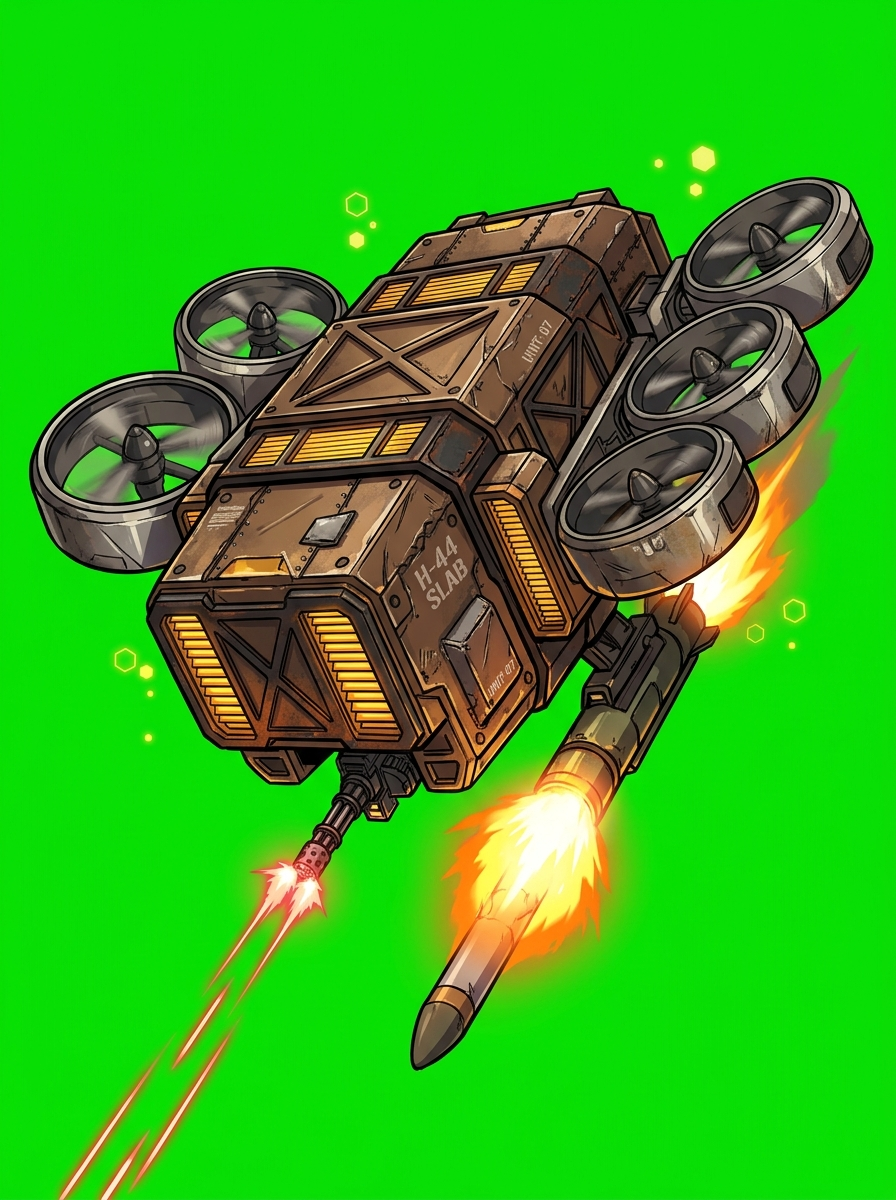
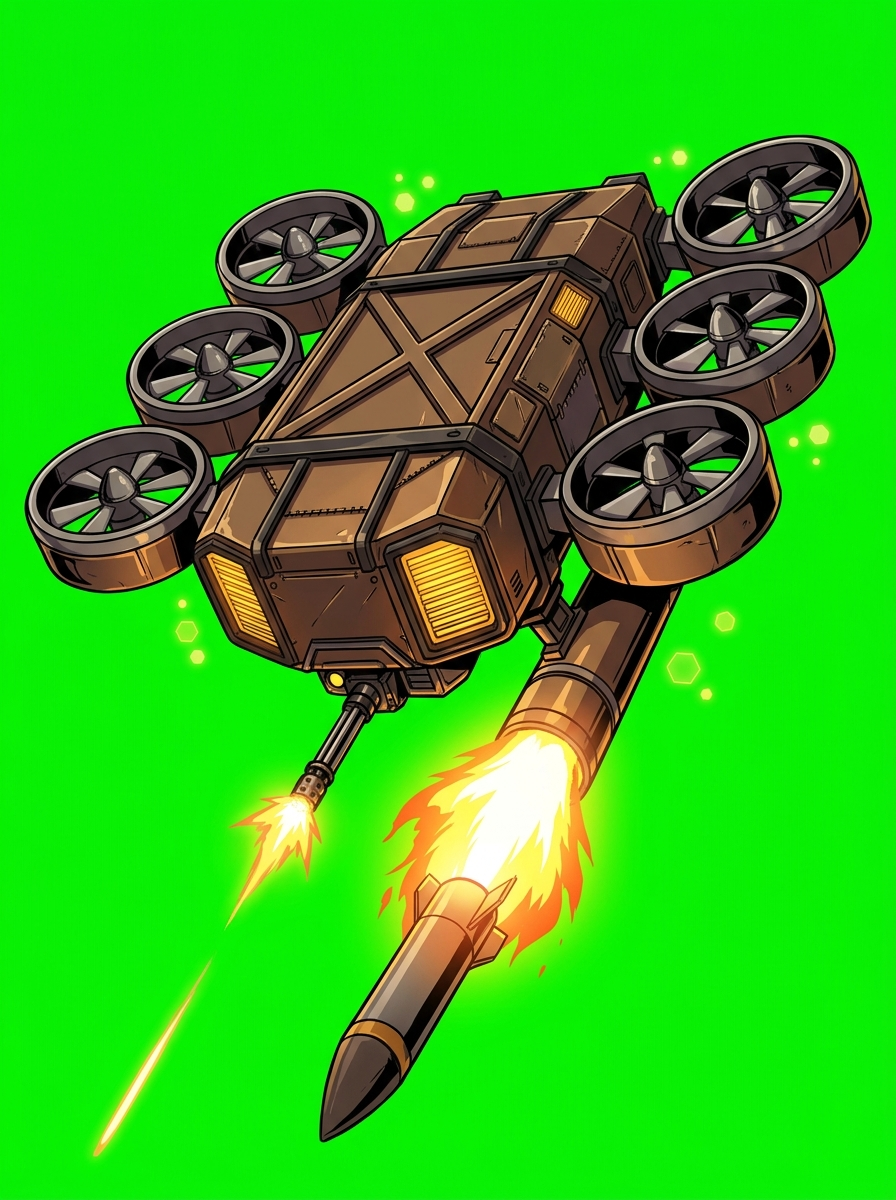
fix(art): redraw t07 and regenerate flagged mech portraits s01, s02, m05
- Redraw t07 (Breath Hold) per visual station specs: remove redundant coaxial rotors, enforce pure bionic pterosaur wings and sniper beak in flight
- Regenerate s01 (Dnipro Score): enforce symmetric 4-rotor ducted fan quadcopter layout without extra rotors
- Regenerate s02 (Blacksmith): complete 6-rotor ducted array (3 per flank) on heavy slab chassis with thermobaric rocket launch
- Regenerate m05 (Stranglehold): eliminate extra phantom legs behind werewolf thighs, preserving clean bipedal ground form and upper gliding squirrel form
- Process transparent chroma-key PNG cutouts across public/assets/mechs/
- Update review verdicts to PASS and synchronize notes across docs/art_gen_*.md and tools/mech_prompt_review.mjs

diff --git a/docs/art_gen_drones.md b/docs/art_gen_drones.md
@@ -27,14 +27,14 @@
 
 | 機體編號 | 參考代號（禁入Prompt） | 主原型與核心外觀特徵 | 次原型與特徵 | 主配色與比重 | 副配色與比重 | 避色色幕底色 | 徽記／圖騰／旗幟與位置 | 武器特徵與裝備位置 | 防呆規則（個別機體嚴禁特徵） | 其他注意事項 | 推薦戰鬥動作與風格 | 視覺判定 | 改善方向 |
 | :---: | :---: | :--- | :--- | :--- | :--- | :---: | :--- | :--- | :--- | :--- | :--- | :---: | :--- |
-| **s01** | 卡特琳娜・薛甫琴科<br>「第聶伯總譜」 | **仿生蜂型4旋翼指揮無人機（Hexacopter Bee）**<br>流線型蜂形氣動身軀，4 根碳纖維傾斜旋翼臂（帶涵道導流環與青藍旋轉氣流），仿生複眼感測鏡。 | *忽略* | 烏克蘭蔚藍（`0x0057b7`）<br>約 55% | 金黃色（`0xffd700`）<br>約 45% | **純洋紅**<br>`#FF00FF` | 經典國旗幾何對稱分色（natflag 藍金配） | **機首下方**：同軸 5.56mm 點陣機槍（噴射曳光彈鏈）。<br>**兩側翼下**：多聯裝雷導巡弋火箭巢（發射微型火箭帶尾煙）。 | **嚴禁手腳與人型！** 純飛行多旋翼，無手無腳。 | 旋翼外側必須有完整的氣動圓形涵道導流環。 | 高速戰術大角度側傾俯衝，機槍咆哮噴火，兩側火箭巢齊射升空。 | 更正 | 蜂形流線軀幹、4軸涵道導流環、機首機槍與兩側火箭巢齊射，蔚藍金黃國旗配色無懈可擊，純飛行無肢體。須注意右側有一個多餘旋翼。 |
-| **s02** | 塔拉斯・邦達爾<br>「鐵匠鋪」 | **重工業平板六旋翼運輸／轟炸機（Hexacopter Slab）**<br>沉重方正的雙層厚鋼板矩形底盤（帶縱橫加強肋與不對稱補丁），6 具厚重鈦合金涵道旋翼桶。 | *忽略* | 鍛造古銅褐（`0xc98a3d`）<br>約 70% | 焦黑鑄鐵框架、明黃發光散熱格柵<br>約 30% | **純翠綠**<br>`#00E600` | 工業極簡粗獷焊接紋與編號鋼印（minimal） | **機腹中央**：大口徑 12.7mm 重型速射機槍。<br>**機腹側掛**：巨大的重型溫壓火箭發射管（點火發射巨彈）。 | **【個別嚴禁】絕對禁止任何機械腿、機械手！** 純厚板六旋翼飛行器，絕無人型或鳥類肢體。 | 武器均固定於機腹下方與側舷，不可手持。 | 懸停於戰場上空，巨大的溫壓火箭破膛而出，尾焰烈火撕裂空氣，機槍向下傾瀉金屬風暴。 | 更正 | 注意左側少一個旋翼。雙層厚鋼板底盤、機腹12.7mm機槍與溫壓火箭齊射震撼，純無人機無肢體。 |
+| **s01** | 卡特琳娜・薛甫琴科<br>「第聶伯總譜」 | **仿生蜂型4旋翼指揮無人機（Hexacopter Bee）**<br>流線型蜂形氣動身軀，4 根碳纖維傾斜旋翼臂（帶涵道導流環與青藍旋轉氣流），仿生複眼感測鏡。 | *忽略* | 烏克蘭蔚藍（`0x0057b7`）<br>約 55% | 金黃色（`0xffd700`）<br>約 45% | **純洋紅**<br>`#FF00FF` | 經典國旗幾何對稱分色（natflag 藍金配） | **機首下方**：同軸 5.56mm 點陣機槍（噴射曳光彈鏈）。<br>**兩側翼下**：多聯裝雷導巡弋火箭巢（發射微型火箭帶尾煙）。 | **嚴禁手腳與人型！** 純飛行多旋翼，無手無腳。 | 旋翼外側必須有完整的氣動圓形涵道導流環。 | 高速戰術大角度側傾俯衝，機槍咆哮噴火，兩側火箭巢齊射升空。 | 通過 | 四具涵道旋翼桶（左右對稱各2具）完整呈現，蜂形流線軀幹、機首機槍與兩側火箭巢齊射震撼，純無人機無肢體。 |
+| **s02** | 塔拉斯・邦達爾<br>「鐵匠鋪」 | **重工業平板六旋翼運輸／轟炸機（Hexacopter Slab）**<br>沉重方正的雙層厚鋼板矩形底盤（帶縱橫加強肋與不對稱補丁），6 具厚重鈦合金涵道旋翼桶。 | *忽略* | 鍛造古銅褐（`0xc98a3d`）<br>約 70% | 焦黑鑄鐵框架、明黃發光散熱格柵<br>約 30% | **純翠綠**<br>`#00E600` | 工業極簡粗獷焊接紋與編號鋼印（minimal） | **機腹中央**：大口徑 12.7mm 重型速射機槍。<br>**機腹側掛**：巨大的重型溫壓火箭發射管（點火發射巨彈）。 | **【個別嚴禁】絕對禁止任何機械腿、機械手！** 純厚板六旋翼飛行器，絕無人型或鳥類肢體。 | 武器均固定於機腹下方與側舷，不可手持。 | 懸停於戰場上空，巨大的溫壓火箭破膛而出，尾焰烈火撕裂空氣，機槍向下傾瀉金屬風暴。 | 通過 | 六具涵道旋翼桶（左右對稱各3具）完整呈現，雙層厚鋼板底盤、機腹12.7mm機槍與溫壓火箭齊射震撼，純無人機無肢體。 |
 | **s04** | 樫村蒼真<br>「鐵鍬」 | **零戰風固定翼單翼突擊無人機（Fixed-Wing Zero）**<br>零式戰機輪廓單翼機，細長方圓機身與前掠切尖平翼，**機鼻裝備堅固的倒三角形工兵鏟破甲衝角**。 | *忽略* | 芥末軍綠黃（`0xd6d63a`）<br>約 80% | 槍鐵黑發動機罩、機身深色鉚接線<br>約 20% | **純深藍**<br>`#0044FF` | 雙翼正反面各有一枚鮮紅的**日之丸紅日圓形徽記（hinomaru）** | **翼根兩側**：近迫爆裂雙管霰彈莢（噴發火花扇面）。<br>**機腹下方**：聚能電漿噴湧口（噴吐赤紅熱核電漿火柱）。 | **嚴禁任何機器人手腳！** 純二戰戰機風格的無人戰鬥機。 | 機鼻三角工兵鏟為破甲實體衝角，不可遺漏。 | 低空超音速俯衝破空衝撞，機鼻工兵鏟破甲向前，電漿與霰彈同時怒吼。 | 通過 | 零戰風單翼機、日之丸徽記、機鼻倒三角工兵鏟破甲衝角極具辨識度，電漿與霰彈齊射符合，零手腳純空戰風格。 |
 | **s05** | 河瑟琪<br>「超頻」 | **X 構型碳纖維競速 FPV 四旋翼（Racing Quad）**<br>極致輕量化 X 型雙層碳纖維裸架，4 軸前傾高轉速螺旋槳（無整流罩），裸露散熱銅管與紫色電容。 | *忽略* | 競速螢光粉橘（`0xff6fb0`）<br>約 60% | 碳纖維暗灰黑、霓虹紫色導線<br>約 40% | **純翠綠**<br>`#00E600` | 幾何極速賽車拉花線條（minimal racing stripes） | **機鼻前端**：超導磁軌轉輪機槍（電磁線性加速砲）。<br>**機腹兩側**：微型巡飛彈發射滑軌（釋放超小型自爆無人機蜂群）。 | **嚴禁任何外裝甲外殼或人型部件！** 骨架必須維持裸露高機動 FPV 穿越機風格。 | 機身維持極致鏤空碳纖維架，不可包覆封閉外殼。 | 以 90 度極限側切翻滾穿越廢墟障礙，機身後方拖曳出霓虹紫色運動軌跡與微型蜂群。 | 通過 | X構型雙層碳纖維裸架、紫色電容與銅管裸露，雙聯磁軌機槍與巡飛彈蜂群軌跡動態張力極高，純FPV鏤空競速質感。 |
 | **s08** | 佐菲亞・馬列克<br>「燭台」 | **共軸雙旋翼球形醫療運補無人機（Coax Sphere）**<br>圓潤堅固的球形主艙（金屬分模線環繞），頂部有一組對轉共軸雙旋翼，兩側對稱醫療運補吊艙。 | *忽略* | 修道院瓷白（`0xe8eef4`）<br>約 70% | 醫療墨綠、黃銅金屬環、赤紅細線<br>約 30% | **純洋紅**<br>`#FF00FF` | 兩側圓盤清晰噴塗**白底深綠十字醫療徽記（flag cross）** | **機體側懸**：長槍管電磁狙擊穿甲針管。<br>**機體下緣**：7.62mm 防衛淨化機槍探頭。 | **【個別嚴禁】嚴禁畫成修女機器人或人形持槍！** 必須為純粹的共軸球體懸浮無人機。 | 武器直接整合於球體兩側短掛架，無手臂。 | 穩定懸浮於槍林彈雨中，共軸雙槳高速旋轉，兩側電磁長針發出神聖白光狙穿敵陣。 | 通過 | 修道院瓷白共軸雙旋翼球體、兩側綠十字醫療吊艙與狙擊針管、機腹防衛機槍完全依循防呆規範，神聖懸浮氛圍佳。 |
 | **s11** | 維爾納・哈特曼<br>「錶芯」 | **V 型尾翼雙桁精密長航無人機（V-Tail Fixed-Wing）**<br>極細長筆直的圓桿中軸機身，修長的大展弦比滑翔翼，V 型後掠尾翼，尾部推進螺旋槳。 | *忽略* | 瑞士精密銀灰（`0xd8c6b0` 金屬鈦白）<br>約 75% | 鐘錶發條黃銅金、儀表刻度黑<br>約 25% | **純深藍**<br>`#0044FF` | 機翼表面如精密鐘錶般的極細微幾何刻度線（minimal） | **機頭頂端**：超高精度光子雷射長標（發射筆直零散射藍光）。<br>**中軸腹下**：電磁貫甲重砲。 | **嚴禁任何四肢！** 必須是修長高雅的滑翔機／高空偵察機構型。 | V 尾中央為推進螺旋槳，翼面展弦比極大。 | 於平流層靜默滑翔，V 尾穩定氣流，機首射出如手術刀般筆直耀眼的光子聚焦光束。 | 通過 | 大展弦比修長滑翔翼、V型尾翼、精密鐘錶刻度與鈦白金屬質感極佳，手術刀般聚焦光柱精準，零肢體純長航機型。 |
 | **s12** | 埃米爾・賽伊托夫<br>「星圖」 | **鴨式三角翼筒射巡弋偵察機（Canard Delta Harop）**<br>前置全動三角形鴨翼，大後掠三角主翼（中段帶摺疊鉸鏈），尾推噴射引擎與菱形機頭。 | *忽略* | 絲路青金藍（`0x9dbfb8` 綠松石青）<br>約 70% | 曜石黑翼前緣、發光座艙感測罩寶石藍<br>約 30% | **純洋紅**<br>`#FF00FF` | 機翼覆蓋中亞游牧幾何星圖圖騰刻紋（totem） | **機頭兩側**：特裝 74U 短卡賓槍口。<br>**機脊中心**：星象定向能量測距巨砲（發射光電重擊光束）。 | **嚴禁人形！** 純粹的隱形鴨式三角翼巡弋機，無任何步足或肢體。 | 主翼中段帶筒射折疊鉸鏈槽，不可遺漏。 | 高速穿破雲層，鴨翼靈敏轉向，機頭藍色光電感測球鎖定地面，頂部星象砲轟出粗壯光柱。 | 通過 | 鴨式三角主翼折疊鉸鏈、幾何星圖圖騰、中心星象砲向前下方轟擊光柱與尾推噴射引擎完全符合規範，穿雲動態極佳。 |
-| **t07** | 李正赫<br>「屏息」 | **仿生翼龍共軸狙擊無人機（Coax Pterosaur）**<br>翼龍骨架與機械軀幹結合，長而銳利的鳥喙狙擊管，一對金屬皮膜翼龍翅膀。 | *忽略* | 迷霧灰綠（`0x3f504a` 暗松綠）<br>約 70% | 骨白翼骨、深邃暗紫腹甲、紅光單眼<br>約 30% | **純洋紅**<br>`#FF00FF` | 沿翼面上下軸向切換的雙色分割迷彩（split: 'y'） | **銳利嘴喙**：長喙直接就是 14.5mm 栓動破甲狙擊槍身。<br>**下顎兩側**：並列微聲短射擊孔。 | **【個別嚴禁】嚴禁站立雙腿！** 後爪在飛行時必須緊扣於腹下，不可畫成站立的人形或人手持槍。 | 翼膜面積需寬大。 | 翼膜迎風鼓起，長喙狙擊管瞄準目標，槍口消焰器綻放微弱白光。 | 重繪 | 背部共軸雙槳式多餘設計。仿生翼龍金屬膜翼、長喙狙擊管完整，無人形肢體，腹下收爪飛行態標準。 |
+| **t07** | 李正赫<br>「屏息」 | **仿生翼龍共軸狙擊無人機（Coax Pterosaur）**<br>翼龍骨架與機械軀幹結合，長而銳利的鳥喙狙擊管，一對金屬皮膜翼龍翅膀。 | *忽略* | 迷霧灰綠（`0x3f504a` 暗松綠）<br>約 70% | 骨白翼骨、深邃暗紫腹甲、紅光單眼<br>約 30% | **純洋紅**<br>`#FF00FF` | 沿翼面上下軸向切換的雙色分割迷彩（split: 'y'） | **銳利嘴喙**：長喙直接就是 14.5mm 栓動破甲狙擊槍身。<br>**下顎兩側**：並列微聲短射擊孔。 | **【個別嚴禁】嚴禁站立雙腿！** 後爪在飛行時必須緊扣於腹下，不可畫成站立的人形或人手持槍。 | 翼膜面積需寬大。 | 翼膜迎風鼓起，長喙狙擊管瞄準目標，槍口消焰器綻放微弱白光。 | 通過 | 成功移除背部多餘共軸雙槳。仿生翼龍金屬膜翼、長喙狙擊管完整，無人形肢體，腹下收爪純飛行態標準。 |
 | **t08** | 韓雪<br>「詠嘆調」 | **東亞機械神龍（Dragon Hexacopter）**<br>蜿蜒修長的東方龍身軀，霸氣龍首（帶龍角、雙鬚與發光利齒），背後兩側伸出一對巨翼 ，**腹下 4 隻機械龍爪**。 | *忽略* | 櫻花粉白（`0xffc8dd` 櫻白金屬）<br>約 65% | 櫻紅金屬飾邊（sakura）、青綠龍鱗光點<br>約 35% | **純翠綠**<br>`#00E600` | 龍鱗表面覆蓋精美的日式櫻花紋樣與金箔線條（sakura） | **口內龍喉**：破盾諧振音波巨砲（噴吐震盪光環）。<br>**龍角基座**：整合光電諧振步槍。 | **【個別嚴禁】嚴禁畫成用兩隻腳站立的人形龍人！** ，純機械神龍。 | 必須具備四爪，且四爪緊扣腹下呈現空中飛行態。 | 於粉紅花瓣與電磁雲霧中蜿蜒盤旋，龍口怒張釋放同心圓音波震波，雙翼帶起疾風。 | 通過 | 背後雙翼展開、東方神龍蜿蜒身軀與櫻花粉白塗裝精美，喉部音波震盪環與腹下四爪收攏純飛行態，無旋翼無人形。 |
 | **t09** | 達留什・法拉赫扎德<br>「悲歌」 | **隱形三角翼巡飛彈母機（Delta-Wing Carrier）**<br>無尾大三角飛翼，尖銳機首向後延伸至整片三角主翼，尾端雙垂直安定面與低噪推進器。 | *忽略* | 波斯陶土黃（`0xc9b6a8` 沙漠灰）<br>約 70% | 幾何黑曜石吸波塗層、鮮橙色巡飛彈導引頭<br>約 30% | **純深藍**<br>`#0044FF` | 機背佈滿波斯幾何圖騰（totem） | **機背發射槽**：多聯蜂巢發射管，正彈射一枚帶有摺疊翼的巡飛彈。<br>**機首下方**：暗藏 7.62mm 守衛機槍。 | **嚴禁任何四肢與人型！** 純粹的隱形無尾大三角飛翼戰機。 | 機翼為一體化大後掠三角構型，不可裝反。 | 高空巡航，背部艙蓋彈開，巡飛彈帶動火箭助推器呼嘯破空而出，劃過長空。 | 通過 | 波斯幾何圖騰無尾大三角飛翼、背部蜂巢彈射巡飛彈、機首守衛機槍完全符合匿蹤母機規格，大後掠三角幾何乾淨。 |
 | **m03** | 烏蘇拉・林德特<br>「續命」 | **雙尾桁搜救運輸無人機（Twin-Boom Pusher）**<br>中央八角稜柱機身，平直長主翼，向後延伸出**兩根平行雙尾桁**，桁間固定倒 U 型尾翼與尾推螺旋槳，桁間滿布偶極天線。 | *忽略* | 阿爾卑斯高山雪灰（`0x59c9a5` 冰川藍灰）<br>約 75% | 救援螢光橙、深炭黑尾桁<br>約 25% | **純洋紅**<br>`#FF00FF` | 極簡極地搜救識別紅橙條紋（minimal） | **機腹固定前射莢艙**：低散射防禦脈衝雷射。<br>**翼下掛架**：雷導輕型火箭發射管。 | **【個別嚴禁】嚴禁機械臂持槍！** 機腹機械修理臂純為裝備擺件，輕武器固定於機腹，無手無腳。 | 雙尾桁與桁間雙排偶極天線陣列為核心識別。 | 穿梭於風雪冰川裂隙，尾推螺旋槳疾轉，翼下火箭呼嘯發射，偶極天線陣列閃爍導航光。 | 通過 | 雙尾桁、倒U尾翼、偶極天線與機腹探測艙到位；唯尾推螺旋槳旋轉動態模糊內部殘留洋紅去背邊緣色渣，需修整。 |

diff --git a/docs/art_gen_morphers.md b/docs/art_gen_morphers.md
@@ -34,7 +34,7 @@
 | **t06** | 陸小川<br>「輕功」 | **齊天靈猴地面型（Monkey Mech）**<br>【定案 70% 主型態】美猴王人型靈猴機甲，猴面額戴雙螺旋金箍，頭頂鳳翅紫金冠雙翎，身手矯健，雙手揮舞發光如意金箍棒。 | **筋斗雲無人飛翼（UAV Cloud Flight）**<br>【定案 30% 次型態】後背展開噴射背包噴出尾焰，尾端凝結雲形成筋斗雲。 | 噴射背包 $\leftrightarrow$ 地面模式收起，飛行模式啟動。 | 齊天朱砂赤紅（`0xffb44d` 亮橙朱紅）<br>約 65% | 耀眼金箍明黃、紫金金屬光澤<br>約 35% | **純翠綠**<br>`#00E600` | 極簡京劇臉譜風格金屬線條（minimal） | **手持**：長棒型熔核焚天電漿砲。<br>**胸側**：特裝高初速微聲機槍孔。 | **靈猴必須靈活矯捷，嚴禁畫成笨重大猩猩！** | 紫金雙翎為感測天線。 | 靈猴金箍棒橫掃千軍，烈火電漿噴湧；上方筋斗雲高速掠過劃出音障雲。 | 通過 | 齊天靈猴人型持熔核金箍棒（70%）矯健威武；筋斗雲無人飛行態（30%）背部噴射背包噴發尾焰凝結音障雲，符合規範。 |
 | **t11** | 拉斐爾・富恩特斯<br>「老兵」 | **阿特拉斯步兵型（Atlas Biped）**<br>【定案 70% 主型態】粗獷鉚接老式重步兵機甲，頭戴等腰直角三角頭盔（正面露臉），肩上配置寬大貨物托盤平台，雙手各持一面旋翼圓盾。 | **傾轉旋翼飛翼巡邏機（Tiltrotor B-2）**<br>【定案 30% 次型態】雙臂旋翼圓盾向上傾轉為推進旋翼，三角頭盔與雙肩托盤拼合成 B-2 匿蹤三角飛翼。 | 三角頭盔 $\leftrightarrow$ 飛翼機首機鼻；雙手旋翼圓盾 $\leftrightarrow$ 左右傾轉螺旋槳；肩上托盤 $\leftrightarrow$ 飛翼主翼面。 | 叢林數碼迷彩綠（`0x8a9a5a` 橄欖綠）<br>約 70% | 硝煙鐵黑、油污黃銅色、黃白警示條<br>約 30% | **純洋紅**<br>`#FF00FF` | 車體各處帶有數碼迷彩（camo）與磨損老兵軍團編號 | **肩甲托盤上方**：右架雙聯 12.7mm 機槍莢，左架 SPG-9 無後座力砲（恆朝前發射）。 | **武器一律安裝在肩上托盤頂面**，雙手持圓盾，嚴禁手持肩砲。 | 等腰直角三角頭盔是本機核心標誌，飛行時即為三角機首。 | 老兵機甲雙盾護胸、肩砲狂暴齊射；背景飛翼巡邏機低空傾轉掠過支援。 | 通過 | 阿特拉斯三角面盔、托盤肩台與旋翼圓盾（70%）、B-2匿蹤傾轉旋翼巡邏機（30%）互變結構吻合，數碼迷彩與重步兵裝甲質感佳。 |
 | **m01** | 德揚・科瓦切維奇<br>「渡鴉」 | **吸血鬼突襲型機甲（Vampire Assault）**<br>【定案 70% 主型態】高挑冷峻的人型機甲，widow's peak 尖突面罩與單片眼眶，身後披掛深色三角滑翔翼（呈摺疊披風狀）。<br>*(若依調整設定狼人：則為高大狼人戰鬥姿)* | **三角滑翔超音速飛行態（Delta Glider）**<br>【定案 30% 次型態】身後雙半翼展開鎖定為完整水平大三角滑翔翼，低空高速滑翔突襲。<br>*(若依調整設定飛鼠：則為展開滑翔膜之飛鼠態)* | 背後雙半翼披風 $\leftrightarrow$ 拼合鎖定之水平三角主翼；胸甲核心與推進噴口共用。 | 塞爾維亞深藍（`0xd94f2f` 國旗三色系）<br>約 60% | 紅白藍三色飾條（natflag 紅白藍）、黑曜石冷光<br>約 40% | **純翠綠**<br>`#00E600` | 胸甲與滑翔翼端帶有清晰**塞爾維亞紅白藍三色國旗飾帶** | **右手**：六管加特林機槍艙。<br>**左手**：雙聯穿盾導引飛彈發射箱。 | **嚴禁直升機螺旋槳！** 2026-08-13 已明確定案「移除旋翼，改成三角滑翔翼」。 | 披風是折疊的三角滑翔翼，兩態共用此翼面。 | 吸血鬼姿態單手加特林開火，另一手飛彈出膛；背後三角翼以超音速掠過天際。 | 通過 | 吸血鬼人型突襲態與超音速三角滑翔翼（Delta Glider）結構正確。但吸血鬼特徵不夠強烈。 |
-| **m05** | 瑪爾塔・韋恩<br>「鎖喉」 | **狼人深屈型機甲（Werewolf Ground）**<br>【定案 70% 主型態】深屈雙足直立狼人機械獸，身軀拉長，狼吻獠牙，飛膜（Patagium）在地面形態消失透明化。 | **滑翔飛鼠飛行型（Flying Squirrel Flight）**<br>【定案 30% 次型態】四肢向四周完全張開如飛鼠般極致繃緊飛膜，頭部微縮，在夜空中貼地滑翔索敵。 | 四肢骨架 $\leftrightarrow$ 飛鼠骨架；連體飛膜（Patagium）$\leftrightarrow$ 滑翔翼面；狼吻下顎 $\leftrightarrow$ 前端感測整流罩。 | 劇毒暗紫灰（`0x55516c` 深夜灰紫）<br>約 65% | 霓虹電光青、高壓散熱亮銅色<br>約 35% | **純翠綠**<br>`#00E600` | 左右軸向反轉陰陽分色塗裝（split: 'x', splitFlip: true） | **背部右側**：整合式摺疊三管電磁機砲。<br>**背部左側**：全向自導飛彈微型莢艙。 | **嚴禁鳥羽翅膀！** 飛行時移除羽毛翅膀，四肢 X 字型展開，兩側飛鼠飛膜貼合四肢。 | 飛行時飛膜貼合四肢，不可脫離肢體懸空。 | 狼人型態利爪刨地狂奔，獠牙滴落電漿；上方飛鼠型態展開膜翼如幽靈般無聲滑翔。 | 更正 | 移除大腿後方多餘雙腿。狼人深屈雙足直立主型態（70%）無飛膜四肢清晰；上方滑翔飛鼠次型態（30%）四肢X字緊繃滑翔膜，無羽毛，毒紫電光青配色完美。 |
+| **m05** | 瑪爾塔・韋恩<br>「鎖喉」 | **狼人深屈型機甲（Werewolf Ground）**<br>【定案 70% 主型態】深屈雙足直立狼人機械獸，身軀拉長，狼吻獠牙，飛膜（Patagium）在地面形態消失透明化。 | **滑翔飛鼠飛行型（Flying Squirrel Flight）**<br>【定案 30% 次型態】四肢向四周完全張開如飛鼠般極致繃緊飛膜，頭部微縮，在夜空中貼地滑翔索敵。 | 四肢骨架 $\leftrightarrow$ 飛鼠骨架；連體飛膜（Patagium）$\leftrightarrow$ 滑翔翼面；狼吻下顎 $\leftrightarrow$ 前端感測整流罩。 | 劇毒暗紫灰（`0x55516c` 深夜灰紫）<br>約 65% | 霓虹電光青、高壓散熱亮銅色<br>約 35% | **純翠綠**<br>`#00E600` | 左右軸向反轉陰陽分色塗裝（split: 'x', splitFlip: true） | **背部右側**：整合式摺疊三管電磁機砲。<br>**背部左側**：全向自導飛彈微型莢艙。 | **嚴禁鳥羽翅膀！** 飛行時移除羽毛翅膀，四肢 X 字型展開，兩側飛鼠飛膜貼合四肢。 | 飛行時飛膜貼合四肢，不可脫離肢體懸空。 | 狼人型態利爪刨地狂奔，獠牙滴落電漿；上方飛鼠型態展開膜翼如幽靈般無聲滑翔。 | 通過 | 大腿後方多餘雙腿已完全移除。狼人深屈雙足直立主型態（70%）無飛膜四肢清晰；上方滑翔飛鼠次型態（30%）四肢X字緊繃滑翔膜，無羽毛，毒紫電光青配色完美。 |
 | **m07** | 約蘭妲・里奧斯<br>「落閘」 | **犀角金龜展翅型（Rhino Beetle Flight）**<br>【定案 70% 主型態】巨大厚重金屬犀角朝天，背部巨大厚甲鞘翅呈 V 字向兩側高高掀起，下方展開兩對透明高頻震顫的機械膜翅撲翼。 | **金龜重裝陣地型（Rhino Beetle Ground）**<br>【定案 30% 次型態】鞘翅完全闔上貼背鎖定形成不動鐵壁，六隻昆蟲節肢緊抓地面，背部防空砲塔升起。 | 巨大犀角、前胸背板、昆蟲三節身軀、六隻昆蟲跗節完全共用；僅鞘翅開闔與膜翅伸展。 | 叢林甲蟲墨綠（`0x5fa833` 帶金屬虹彩）<br>約 75% | 焦黑昆蟲腹板、能量青金石藍光縫<br>約 25% | **純洋紅**<br>`#FF00FF` | 鞘翅外表面雕刻幾何甲蟲圖騰（totem） | **背部甲殼中央**：雙聯裝 35mm 厄利孔高射防空旋轉砲塔。<br>**頭下口器兩側**：扇面防衛電漿噴射口。 | **昆蟲是頭胸腹三節，沒有脖子！** 六隻腳是昆蟲節肢與跗節，**嚴禁獸爪肉墊、嚴禁人型雙腿**！ | 鞘翅為純防禦重裝甲外殼，膜翅為真正飛行推進撲翼。 | 展翅金龜懸空怒吼，雙聯防空砲對空掃射；陣地金龜收翅如堅不可摧之綠色堡壘。 | 通過 | 犀角金龜兩態昆蟲結構與墨綠虹彩符合。 |
 | **m08** | 維迪雅・拉托爾<br>「空號」 | **消音黑豹地面型（Panther Ground）**<br>【定案 70% 主型態】極度流線低矮的四足黑豹機械獸，絨質消音裝甲，圓潤豹首與三角耳，細長金屬平衡尾，伏地前行。 | **展翅夜梟飛行型（Owl Glider Flight）**<br>【定案 30% 次型態】背部隱藏的雙肩無聲夜梟羽翼完全向前掠展開，雙肩狙擊管平伸，在夜色中無聲滑翔。 | 豹身四足與尾巴 $\leftrightarrow$ 滑翔時收攏之機腹；雙肩隱形羽翼 $\leftrightarrow$ 摺疊貼身之肩甲；消音毛面材質兩態一致。 | 匿蹤啞光深炭黑（`0x8f7f70` 絨面吸波黑）<br>約 80% | 幽靈冰晶藍感測鏡、微光電磁導軌<br>約 20% | **純洋紅**<br>`#FF00FF` | 覆蓋全機的暗夜微光數碼迷彩（camo） | **雙肩頂部**：雙肩對稱配置大口徑消音反器材重狙。<br>**前胸下部**：特裝微聲點射槍。 | **整台機體嚴禁強烈金屬高光與硬反光**（必須為吸音吸波啞光消光質感）！純貓科／鳥類仿生，無人型特徵。 | 雙肩羽翼平時收縮貼合於豹背，飛行時向前掠張開。 | 黑豹低伏於陰影中悄無聲息潛行；上方夜梟滑翔型展開巨大消音羽翼無聲鎖定。 | 通過 | 消音黑豹低伏潛行態（70%）與展翅夜梟前掠狙擊態（30%）肩甲羽翼折疊/展開機制嚴密，全機啞光消光質感到位，零高光反射規範落實。 |
 
